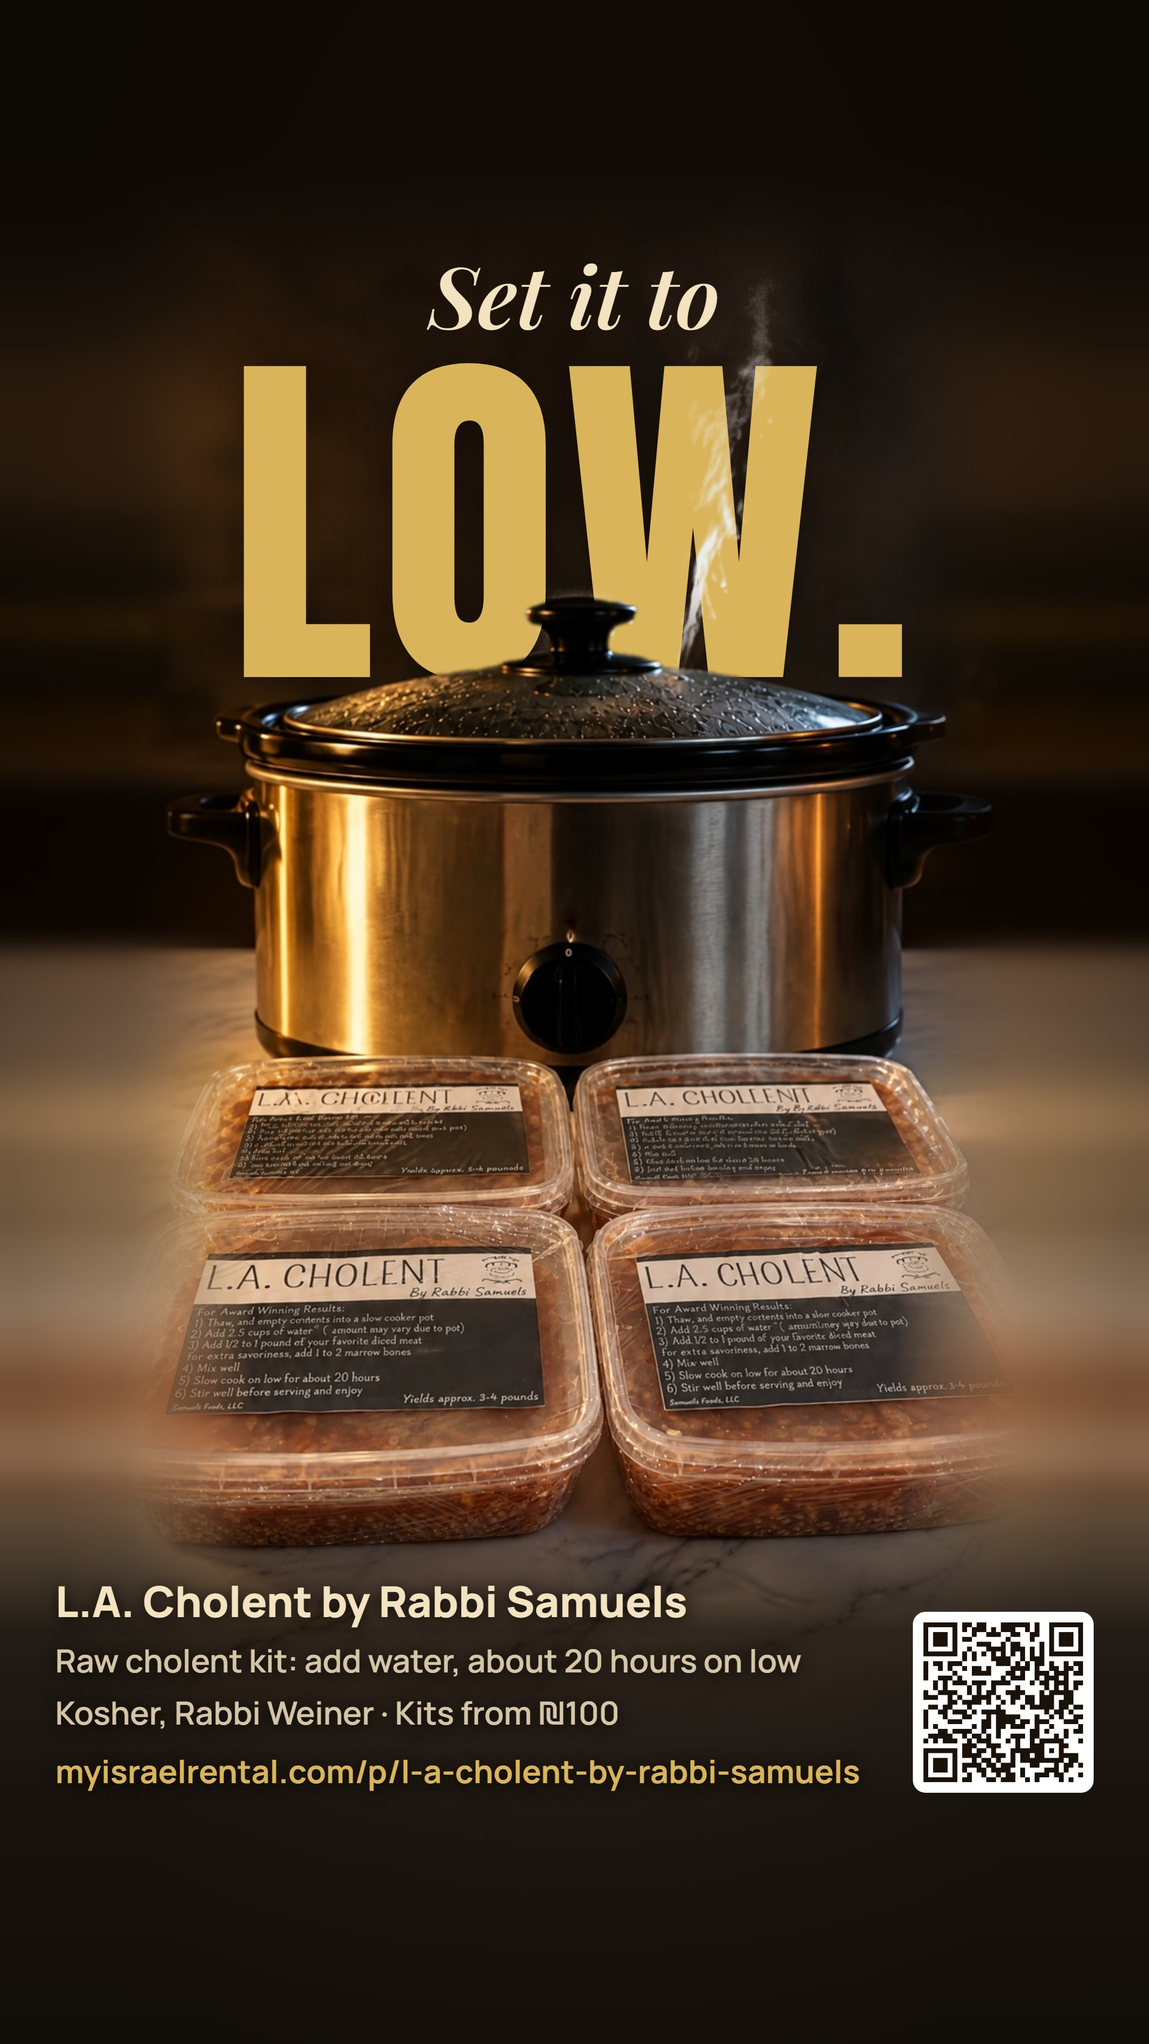
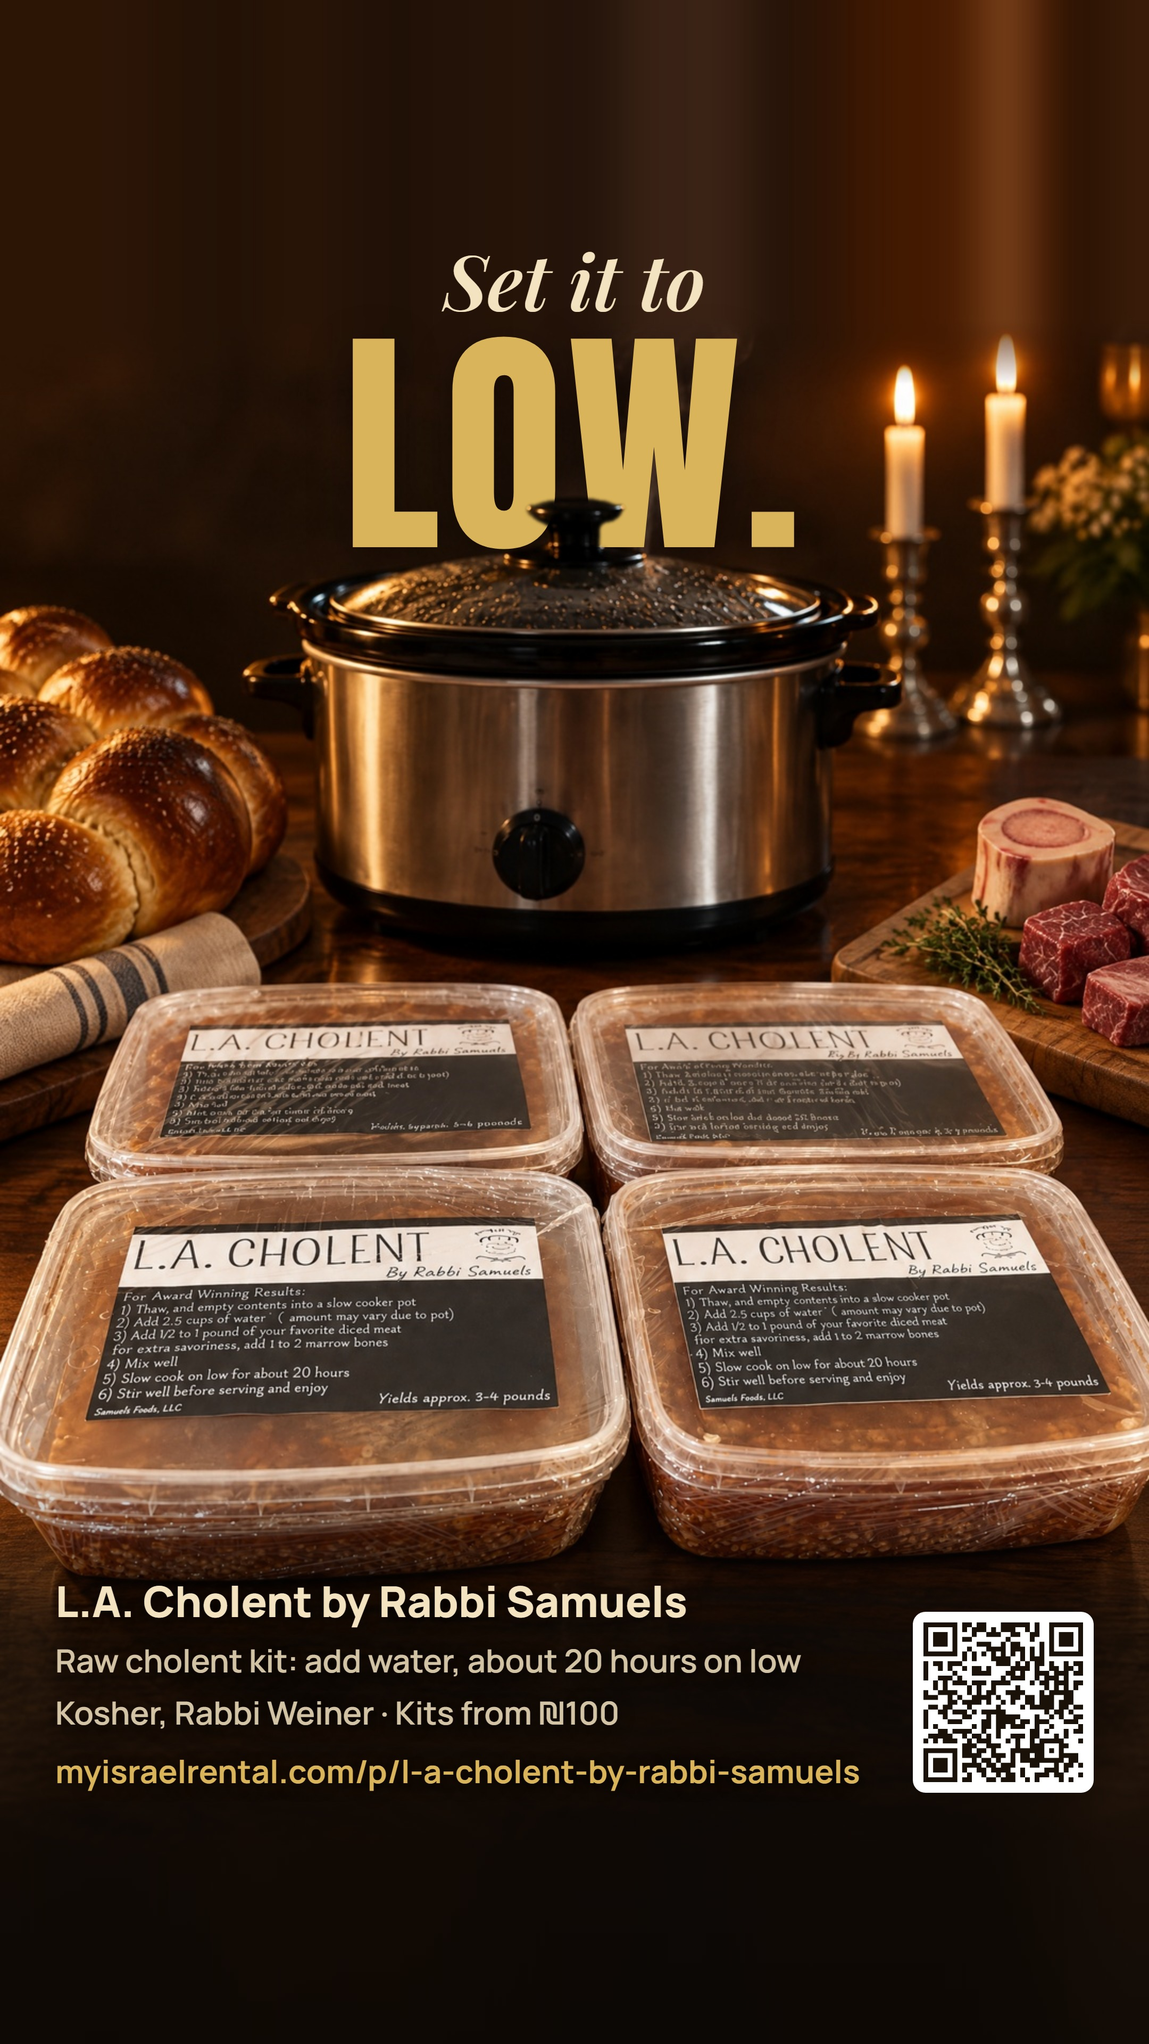
Ads: pictures run edge to edge and product shots are styled (A3.9, A3.10); feed product photos made 3:4
Tzvi, 10 Nov 2026, on L.A. Cholent's status ad: "whiteish on the sides... make it look premium and delicious like
with product photos with other things on the side". Its picture had been shrunk for the headline and the sides
filled with edge colours.

- A3.9: a generated picture is laid at full width with scripts/ad-fit-picture.py, which carries on only the wall
  above and the table below and refuses to shrink; ad-blueprint refuses an answer that does not name it.
- A3.10: a product shot is styled like a pro shoot, with two or three things from the business's own world at the
  sides, never in front of the product or passed off as it.
- L.A. Cholent's ad remade that way: their four tubs on walnut with a challah, the marrow bones and beef they sell
  as add-ons, and Shabbos candles.
- The image model refuses 4:5, so every Product photo in the feed shape would have failed: feed photos are now 3:4.
- product-match-sheet shows the main product too, not only the pieces split from it.

diff --git a/docs/ads/gen/la-cholent-status/gen.py b/docs/ads/gen/la-cholent-status/gen.py
@@ -22,17 +22,21 @@ BUILD = ROOT / "scrollcraft" / "builds" / "la-cholent"
 TUBS = BUILD / "src" / "medium.jpg"
 POT = BUILD / "assets" / "pot.webp"
 PROMPT = (
-    "Professional food advertising photograph, vertical. Image 1 is the real product: keep it exactly, the four clear "
-    "plastic sealed tubs with the brown raw cholent kit inside and the dark label on each lid, the same four tubs, the "
-    "same labels. Image 2 shows the kind of slow cooker: a brushed stainless steel slow cooker with a black glass lid "
-    "and black handles. Composition, strictly: the TOP THIRD of the picture is empty warm dark background, a softly "
-    "lit dark kitchen wall, nothing in it. The slow cooker stands on a white marble counter in the middle of the "
-    "picture, centred, lid on, filling about 60 percent of the width, its lid top at about 40 percent of the picture's "
-    "height. The four tubs from image 1 stand in front of it on the marble, in two rows of two, slightly angled so "
-    "their labels face the camera, their front edge at about 78 percent of the picture's height. Below that, only "
-    "marble. Moment: a thin, soft wisp of steam rises from the lid's vent. Light: warm low candle-coloured light from "
-    "the left, a gold glow on the steel, a gentle fall to dark at the edges, real depth. No text, no letters and no "
-    "logos anywhere except the tubs' own labels; no hands, no people, no other props, no food outside the tubs."
+    "Premium food advertising photograph, a styled product shoot, portrait 3:4, filling the whole frame. Image 1 is the "
+    "real product: keep it exactly, the four clear plastic sealed tubs with the brown raw cholent kit inside and the "
+    "dark label on each lid, the same four tubs, the same labels, sharp and clearly readable. Image 2 shows the kind of "
+    "slow cooker: brushed stainless steel with a black glass lid. Set: a dark walnut wood table in warm candlelight. "
+    "The four tubs stand at the front centre in two rows of two, big, filling about 70 percent of the width, slightly "
+    "angled so the labels face the camera, their front edge at about 84 percent of the picture's height. The slow "
+    "cooker stands behind them, lid on, a soft wisp of steam rising from its vent, its lid top at about 30 percent of "
+    "the height. Styled around them, near the left and right edges only, never in front of the tubs: on the left a "
+    "golden braided challah on a wooden board with a linen napkin; on the right a small wooden board with two raw "
+    "beef marrow bones and a few cubes of raw diced beef, a sprig of thyme. Behind, far out of focus, two lit "
+    "Shabbat candles in silver candlesticks, warm glowing points. The top 22 percent of the picture is plain dark warm "
+    "background, the candle glows below that line; below the tubs the walnut table falls into shadow. Light: warm "
+    "golden key light from the left, gentle fill from the front so the tubs and labels are bright and clear, rich "
+    "shadows, real depth, appetising and premium. No cooked food, no plates of cholent, no text, no letters and no "
+    "logos anywhere except the tubs' own labels; no hands, no people."
 )
 
 
@@ -50,7 +54,7 @@ def main(take: str) -> None:
     r = higgsfield_client.subscribe(
         "marketing-studio/image/sunburst",
         arguments={"prompt": PROMPT, "image_urls": [higgsfield_client.upload_file(jpg(TUBS)), higgsfield_client.upload_file(jpg(POT))],
-                   "aspect_ratio": "9:16", "resolution": "2k", "quality": "medium", "enhance_prompt": False},
+                   "aspect_ratio": sys.argv[2] if len(sys.argv) > 2 else "9:16", "resolution": "2k", "quality": "medium", "enhance_prompt": False},
         on_queue_update=lambda s: final.update(s=s),
     )
     if not isinstance(final.get("s"), higgsfield_client.Completed):

diff --git a/scripts/ad-fit-picture.py b/scripts/ad-fit-picture.py
@@ -1,0 +1,77 @@
+"""Lay a generated picture on an ad at full width, never shrunk (ad rule A3.9, Tzvi 10 Nov 2026).
+
+    backend/.venv/Scripts/python scripts/ad-fit-picture.py <picture> <out dir> <top> [--shape story|feed|square] [--cut]
+
+Why: L.A. Cholent's first status ad had its picture shrunk to make room for the words, and the sides filled with
+the picture's edge colours. Tzvi: "whiteish on the sides... make it look premium". A pro ad's picture runs edge to
+edge. So the picture is laid at the ad's full width, starting <top> pixels down; only what lies above and below it
+(a plain wall, a table falling to dark) is carried on, in the picture's own top and bottom colours, faded in over
+60px. If the picture is taller than the room left, it stops: make it again in a shorter shape (the model takes 1:1,
+3:4, 2:3, 9:16 and wider), never shrink it.
+
+Writes <out dir>/ground.jpg (the ad's ground) and, with --cut, <out dir>/front.png (the product cut out at the
+same place, for laying in front of a headline)."""
+import argparse
+import io
+import sys
+from pathlib import Path
+
+ROOT = Path(__file__).resolve().parents[1]
+sys.path.insert(0, str(ROOT / "backend"))
+
+import numpy as np  # noqa: E402
+from PIL import Image  # noqa: E402
+
+SIZES = {"story": (1080, 1920), "feed": (1080, 1350), "square": (1080, 1080)}
+FADE = 60
+
+
+def main() -> None:
+    ap = argparse.ArgumentParser(description=__doc__, formatter_class=argparse.RawDescriptionHelpFormatter)
+    ap.add_argument("picture")
+    ap.add_argument("out")
+    ap.add_argument("top", type=int)
+    ap.add_argument("--shape", default="story", choices=SIZES)
+    ap.add_argument("--cut", action="store_true")
+    a = ap.parse_args()
+    W, H = SIZES[a.shape]
+    im = Image.open(a.picture).convert("RGB")
+    im = im.resize((W, round(W * im.height / im.width)), Image.LANCZOS)
+    h = im.height
+    if a.top < 0 or a.top + h > H:
+        raise SystemExit(f"the picture is {h}px tall at full width and starts at {a.top}: it does not fit the {H}px "
+                         f"{a.shape}. Make it again in a shorter shape; never shrink it (A3.9).")
+    import cv2
+    px = np.asarray(im).astype(np.float32)
+    top = cv2.GaussianBlur(px[:30].mean(0, keepdims=True), (0, 0), 25)[0]
+    bot = cv2.GaussianBlur(px[-30:].mean(0, keepdims=True), (0, 0), 25)[0]
+    g = np.empty((H, W, 3), np.float32)
+    g[:a.top] = top
+    g[a.top:a.top + h] = px
+    g[a.top + h:] = bot
+    for i in range(FADE):
+        t = i / FADE
+        if a.top > 0:
+            g[a.top + i] = g[a.top + i] * t + top * (1 - t)
+        if a.top + h < H:
+            j = a.top + h - 1 - i
+            g[j] = g[j] * t + bot * (1 - t)
+    out = Path(a.out)
+    out.mkdir(parents=True, exist_ok=True)
+    ground = Image.fromarray(np.clip(g, 0, 255).astype(np.uint8))
+    ground.save(out / "ground.jpg", quality=94)
+    print(f"ground.jpg: the picture at full width, rows {a.top} to {a.top + h} of {H}")
+    if a.cut:
+        from utils.ad_shots import front_cut
+        buf = io.BytesIO()
+        ground.save(buf, "JPEG", quality=95)
+        c = front_cut(buf.getvalue())
+        if c:
+            Image.open(io.BytesIO(c)).resize((W, H)).save(out / "front.png")
+            print("front.png: the product cut out at the same place")
+        else:
+            print("no clear product to cut out: the headline stays above the product")
+
+
+if __name__ == "__main__":
+    main()

diff --git a/scripts/product-match-sheet.py b/scripts/product-match-sheet.py
@@ -57,13 +57,15 @@ def main(gen: str, real: str, out: str) -> None:
         ref = ref.crop((xs.min(), ys.min(), xs.max() + 1, ys.max() + 1))
     scale = st[parts[0], 2] / ref.width
     ref = ref.resize((max(1, round(ref.width * scale)), max(1, round(ref.height * scale))))
-    row_h = max([c.height for c in crops[1:]] or [crops[0].height])
-    row = crops[1:] or crops[:1]
+    row_h = max(c.height for c in crops)
+    # The main product first, then every separate piece: a prop the model split off (a pot behind the product)
+    # shows here too, and is judged by eye, never counted as a copy by name alone.
+    row = crops
     W = max(sum(c.width for c in row) + pad * (len(row) + 1), ref.width + 2 * pad)
     H = 60 + row_h + 60 + ref.height + pad
     sheet = Image.new("RGB", (W, H), "white")
     d = ImageDraw.Draw(sheet)
-    d.text((pad, 18), "GENERATED COPIES (full size)", fill="black")
+    d.text((pad, 18), "GENERATED: MAIN PRODUCT, THEN EACH SEPARATE PIECE (full size)", fill="black")
     x = pad
     for c in row:
         sheet.paste(c, (x, 50))

diff --git a/backend/utils/ad_shots.py b/backend/utils/ad_shots.py
@@ -19,7 +19,9 @@ from typing import Any
 SETS = Path(__file__).resolve().parent.parent / "assets" / "ad-sets"
 SHOTS_PER_DAY = 5
 MODEL = "marketing-studio/image/sunburst"
-ASPECT = {"square": "1:1", "feed": "4:5", "story": "9:16"}
+# The model takes 1:1, 3:4 and 9:16 but not 4:5 (refused, 10 Nov 2026): the feed photo is made 3:4 and the ad
+# maker lays it over the 4:5 feed, losing a strip of the plain wall above and table below, never the product.
+ASPECT = {"square": "1:1", "feed": "3:4", "story": "9:16"}
 
 # One look per kind of business, so two businesses' ads do not come out the same picture (Tzvi, 8 Nov 2026:
 # "make each design visually distinct"). The set is the empty picture the product is put on; the light, the

diff --git a/docs/ads/blueprints/la-cholent-status.md b/docs/ads/blueprints/la-cholent-status.md
@@ -45,13 +45,13 @@ Every ad rule, in making order (docs/ad-rules-checklist.md). Answer a stage befo
 ## 3. The picture
 
 - [x] A3.1 One huge subject on one quiet ground: it fills half the frame or more, two or three colours in all.
-  plan: one steel slow cooker filling about 60 percent of the width, their tubs in front, on marble, a dark warm ground; three colours: steel, gold, the cholent's brown.
+  plan: one styled product shoot filling the whole frame: their four tubs big at the front, the slow cooker behind, a braided challah on the left, marrow bones and diced beef (their add-ons) on a board on the right, candles out of focus behind; walnut, steel, gold and the kit's brown.
 - [x] A3.2 A rental or a place: only the owner's real photos. A generated room does not exist. Say where each picture comes from.
-  plan: a food product, not a place. The tubs are their own photo (scrollcraft/builds/la-cholent/src/medium.jpg); the slow cooker is a prop (their own site uses the same kind, assets/pot.webp).
+  plan: a food product, not a place. The tubs are their own photo (scrollcraft/builds/la-cholent/src/medium.jpg); the slow cooker, challah, candles, bones and beef are props. No cooked cholent is shown as theirs.
 - [x] A3.3 A generated picture of a product keeps the real product: rebuilt around its real photo, its traits unchanged, compared beside that photo. Describe the reference scene in full, never "swap the product".
   plan: rebuilt around medium.jpg: the same clear sealed tubs with the dark L.A. CHOLENT label and the brown raw kit inside, the same count of four; only the camera, light and the pot behind change. Label compared beside medium.jpg at full size.
 - [x] A3.4 Another shape than the screen: the background is extended, never cropped or zoomed.
-  plan: the model draws the whole 9:16 frame; nothing cropped or zoomed; any gap filled from the picture's own colours.
+  plan: made in the story shape and used whole: nothing shrunk, cropped or filled at the edges (Tzvi, 10 Nov 2026: the first version was 'whiteish on the sides').
 - [x] A3.5 Sharp and bright; one colour that stands out on a white and a dark feed, from our palette or the owner's own photo and logo.
   plan: warm gold and steel on a dark ground: stands out on white and dark feeds; gold from their logo seal.
 - [x] A3.6 A hand holding, offering or reaching in, where it helps. Real or native beats polished.
@@ -60,6 +60,10 @@ Every ad rule, in making order (docs/ad-rules-checklist.md). Answer a stage befo
   plan: the prompt forbids new letters; only their own tub label stays. Every ad word is typed on top.
 - [x] A3.8 Another brand's idea and composition only, never its marks, wording or product.
   plan: only the pun idea from the reference.
+- [x] A3.9 The picture fills the ad edge to edge as it was made: made in the ad's own shape or the nearest shorter one the model takes, laid at full width with scripts/ad-fit-picture.py, which carries on only the plain wall above and table below in the picture's own colours and refuses to shrink. Never shrunk with filled or pale sides. The answer names ad-fit-picture, or n/a when no picture is generated.
+  plan: made 3:4 (the story shape left no room for the words), laid at full width from row 300 with scripts/ad-fit-picture.py --cut; the wall above and the table below carried on in its own colours, nothing shrunk.
+- [x] A3.10 A product shot is styled like a pro shoot: the product big and sharp on a rich surface (wood, stone, linen, never a bare white table), in warm shaped light, with two or three things from the business's own world at the sides (what it is served with, made from or sold beside). Props never in front of the product, never presented as the product, no cooked food passed off as theirs. Name each prop and why it belongs.
+  plan: their four tubs big at the front on dark walnut in warm candlelight; at the sides a braided challah (what cholent is eaten with on Shabbos), raw marrow bones and diced beef (their own add-ons, ₪40 and ₪50 a pound), Shabbos candles out of focus (when it is eaten); the slow cooker behind (how it is cooked). None in front of the tubs; no cooked cholent shown.
 
 ## 4. Body and proof
 
@@ -121,11 +125,11 @@ Every ad rule, in making order (docs/ad-rules-checklist.md). Answer a stage befo
 - [x] A9.3 The owner can change every word and the price stays right.
   plan: n/a: a hand-made status ad sent as a picture, not a maker design.
 - [x] A9.4 Cost read from the API before any generation, and the spend reported.
-  plan: the API has no price lookup; the last measured price for this model was about 2 credits a picture. One picture made, about 2 credits. Reported to Tzvi.
+  plan: the API has no price lookup; the last measured price for this model was about 2 credits a picture. Three pictures made (the first had pale empty sides, Tzvi 10 Nov 2026; the second left no room for the words; a 4:5 request was refused and cost nothing), about 6 credits. Reported to Tzvi.
 - [x] A9.5 Never bland: before anyone sees it, the ad sits beside the pro ads at the same size (python scripts/ad_vs_pros.py, references in docs/inspo/pro-references). Five yes-or-no: the product is the hero, close and big (about half the width or more); one strong light or bold colour, not flat even light; something happens (a moment, motion, a surprise, an idea); the headline is part of the design, big, not a small line in a corner; it holds its own beside the pros. Any no: remade, not shown.
-  plan: docs/ads/la-cholent-and-site-vs-pros.jpg: pot and tubs fill most of the width; warm candle light on steel; steam rising; LOW. is the design; holds its own. All five yes.
+  plan: docs/ads/la-cholent-vs-pros.jpg: the tubs fill most of the width, styled with challah, bones and candles, edge to edge; warm candle light on steel; steam rising; LOW. is the design; holds its own. All five yes.
 - [x] A9.6 Every copy of the product the picture adds (pieces in the air, a second item, a stack, a pour) matches the real photo in shape, size, colour and coating, with nothing round it the real product would not make (crumbs, drops, glow). The prompt names those traits; the sheet from backend/.venv/Scripts/python scripts/product-match-sheet.py <picture> <real photo> <sheet.jpg> is looked at piece by piece. The answer names the sheet file, or n/a when no copies are added.
-  plan: docs/ads/la-cholent-tubs-vs-real.jpg: no copies added, the four tubs of their photo, labels and kit compared beside medium.jpg and the same.
+  plan: docs/ads/la-cholent-tubs-vs-real.jpg: no copies added, the four tubs of their photo, labels and kit compared beside medium.jpg; the props are not their product.
 
 ## 9. The pro look (Tzvi, 8 Nov 2026: "use the new things you learnt... make it a rule for all future ad builds")
 

diff --git a/docs/ad-rules-checklist.md b/docs/ad-rules-checklist.md
@@ -56,6 +56,8 @@ A3.5 | Sharp and bright; one colour that stands out on a white and a dark feed, 
 A3.6 | A hand holding, offering or reaching in, where it helps. Real or native beats polished. | 3, 9e.6, 9g.4 | decide
 A3.7 | No words drawn into a generated picture. The picture is one layer, the words typed on top and editable. | 6, 9g.8 | decide
 A3.8 | Another brand's idea and composition only, never its marks, wording or product. | 9g.2 | decide
+A3.9 | The picture fills the ad edge to edge as it was made: made in the ad's own shape or the nearest shorter one the model takes, laid at full width with scripts/ad-fit-picture.py, which carries on only the plain wall above and table below in the picture's own colours and refuses to shrink. Never shrunk with filled or pale sides. The answer names ad-fit-picture, or n/a when no picture is generated. | Tzvi 10 Nov | decide since:2026-11-10
+A3.10 | A product shot is styled like a pro shoot: the product big and sharp on a rich surface (wood, stone, linen, never a bare white table), in warm shaped light, with two or three things from the business's own world at the sides (what it is served with, made from or sold beside). Props never in front of the product, never presented as the product, no cooked food passed off as theirs. Name each prop and why it belongs. | Tzvi 10 Nov | decide since:2026-11-10
 
 ## 4. Body and proof
 

diff --git a/docs/static-ad-rules.md b/docs/static-ad-rules.md
@@ -652,3 +652,15 @@ them from the front like the real photo's. Step A9.6 in docs/ad-rules-checklist.
 
 Ad picture prompts start from the closest proven one in `docs/prompts/README.md` (Tzvi, 10 Nov 2026: right the
 first time); a prompt whose picture is used goes in there with its number of takes.
+
+## Edge to edge, and styled like a shoot (Tzvi, 10 Nov 2026)
+
+"The la cholent ad is whiteish on the sides; show his product clearly and make it look premium and delicious like
+with product photos with other things on the side to make it less plain." The first L.A. Cholent picture was made
+too tall for the words, so it was shrunk and its sides filled with its own edge colours: pale bands that read as
+unfinished. Two rules came of it. A3.9: the picture runs edge to edge as it was made, laid with
+scripts/ad-fit-picture.py, which only carries on the plain wall above and the table below and refuses to shrink;
+a picture that does not fit is made again in a shorter shape. A3.10: a product shot is styled like a pro shoot, on a
+rich surface in warm light, with two or three things from the business's own world at the sides (for L.A. Cholent:
+a challah, the marrow bones and beef they sell as add-ons, Shabbos candles), never in front of the product and never
+passed off as it.
